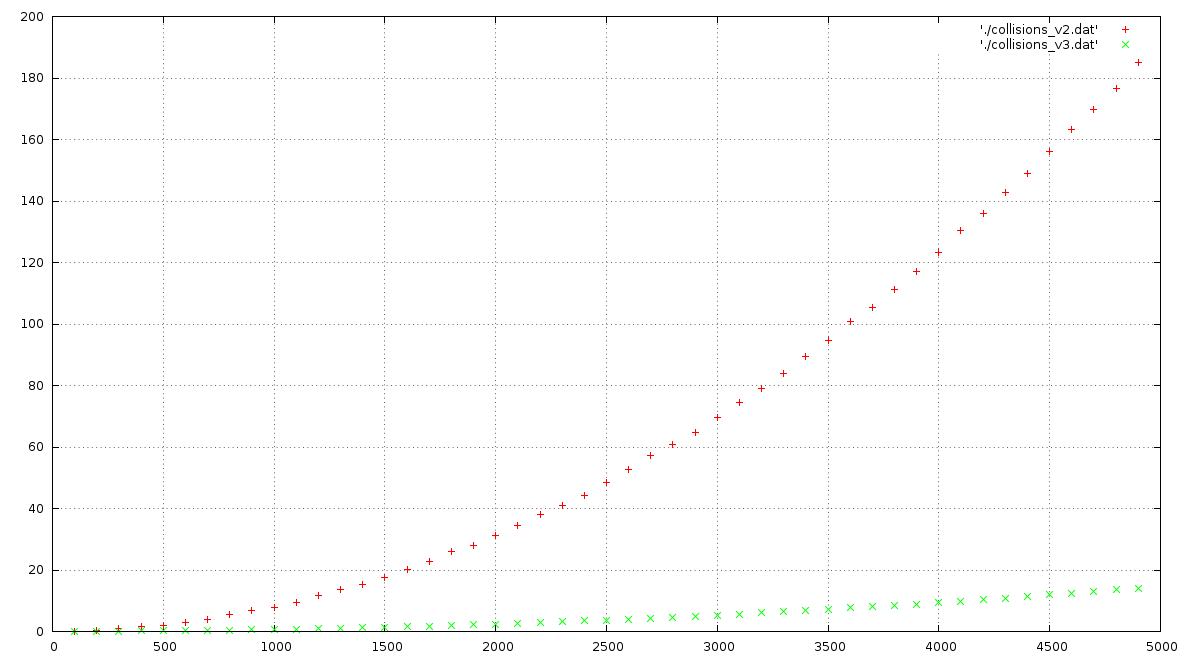
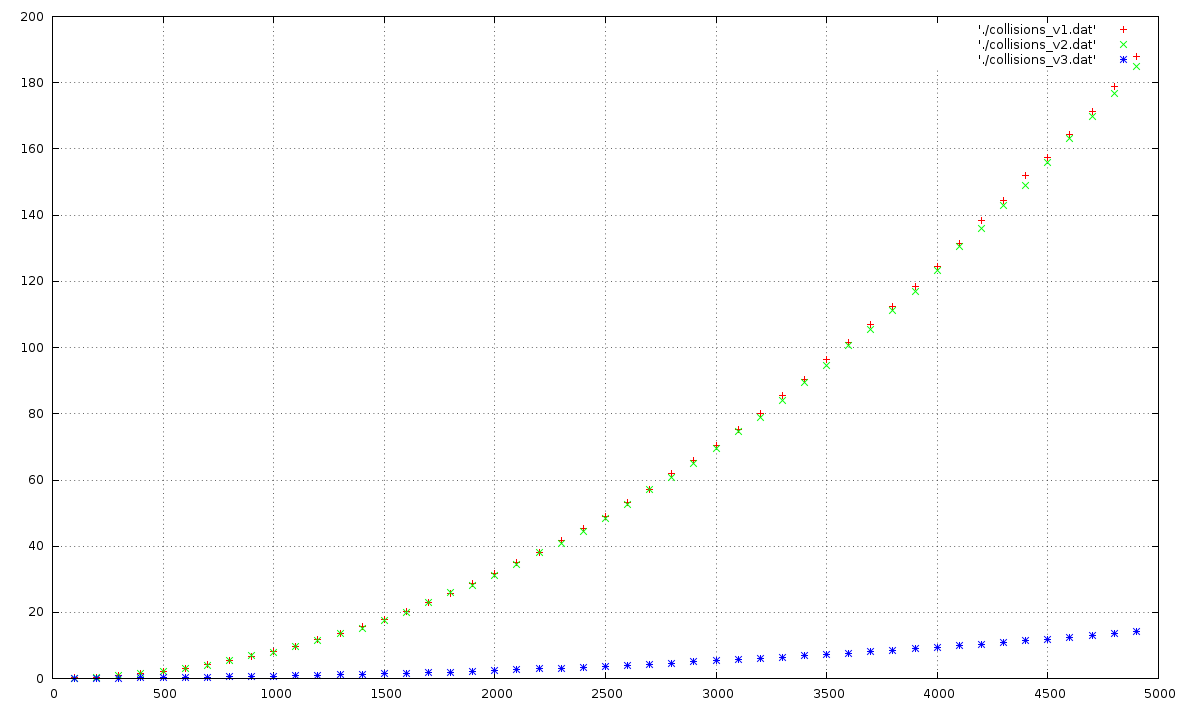
donnees collisions

diff --git a/fichiers/atom.c b/fichiers/atom.c
@@ -265,12 +265,12 @@ static void atom_collision(void)
 	check(err, "Failed to set kernel arguments! %d\n", err);
 
 	/* Version 1 et 2 */
-	global = natoms;
-	local = 1;
+	//global = natoms;
+	//local = 1;
 
 	/* Version 3 */
-	//global = 16*(natoms/16+1)*(natoms/16+2)/2;
-	//local = 16;
+	global = 16*(natoms/16+1)*(natoms/16+2)/2;
+	local = 16;
 
 	// The clock is ticking!!
 	struct timeval tv1, tv2;
